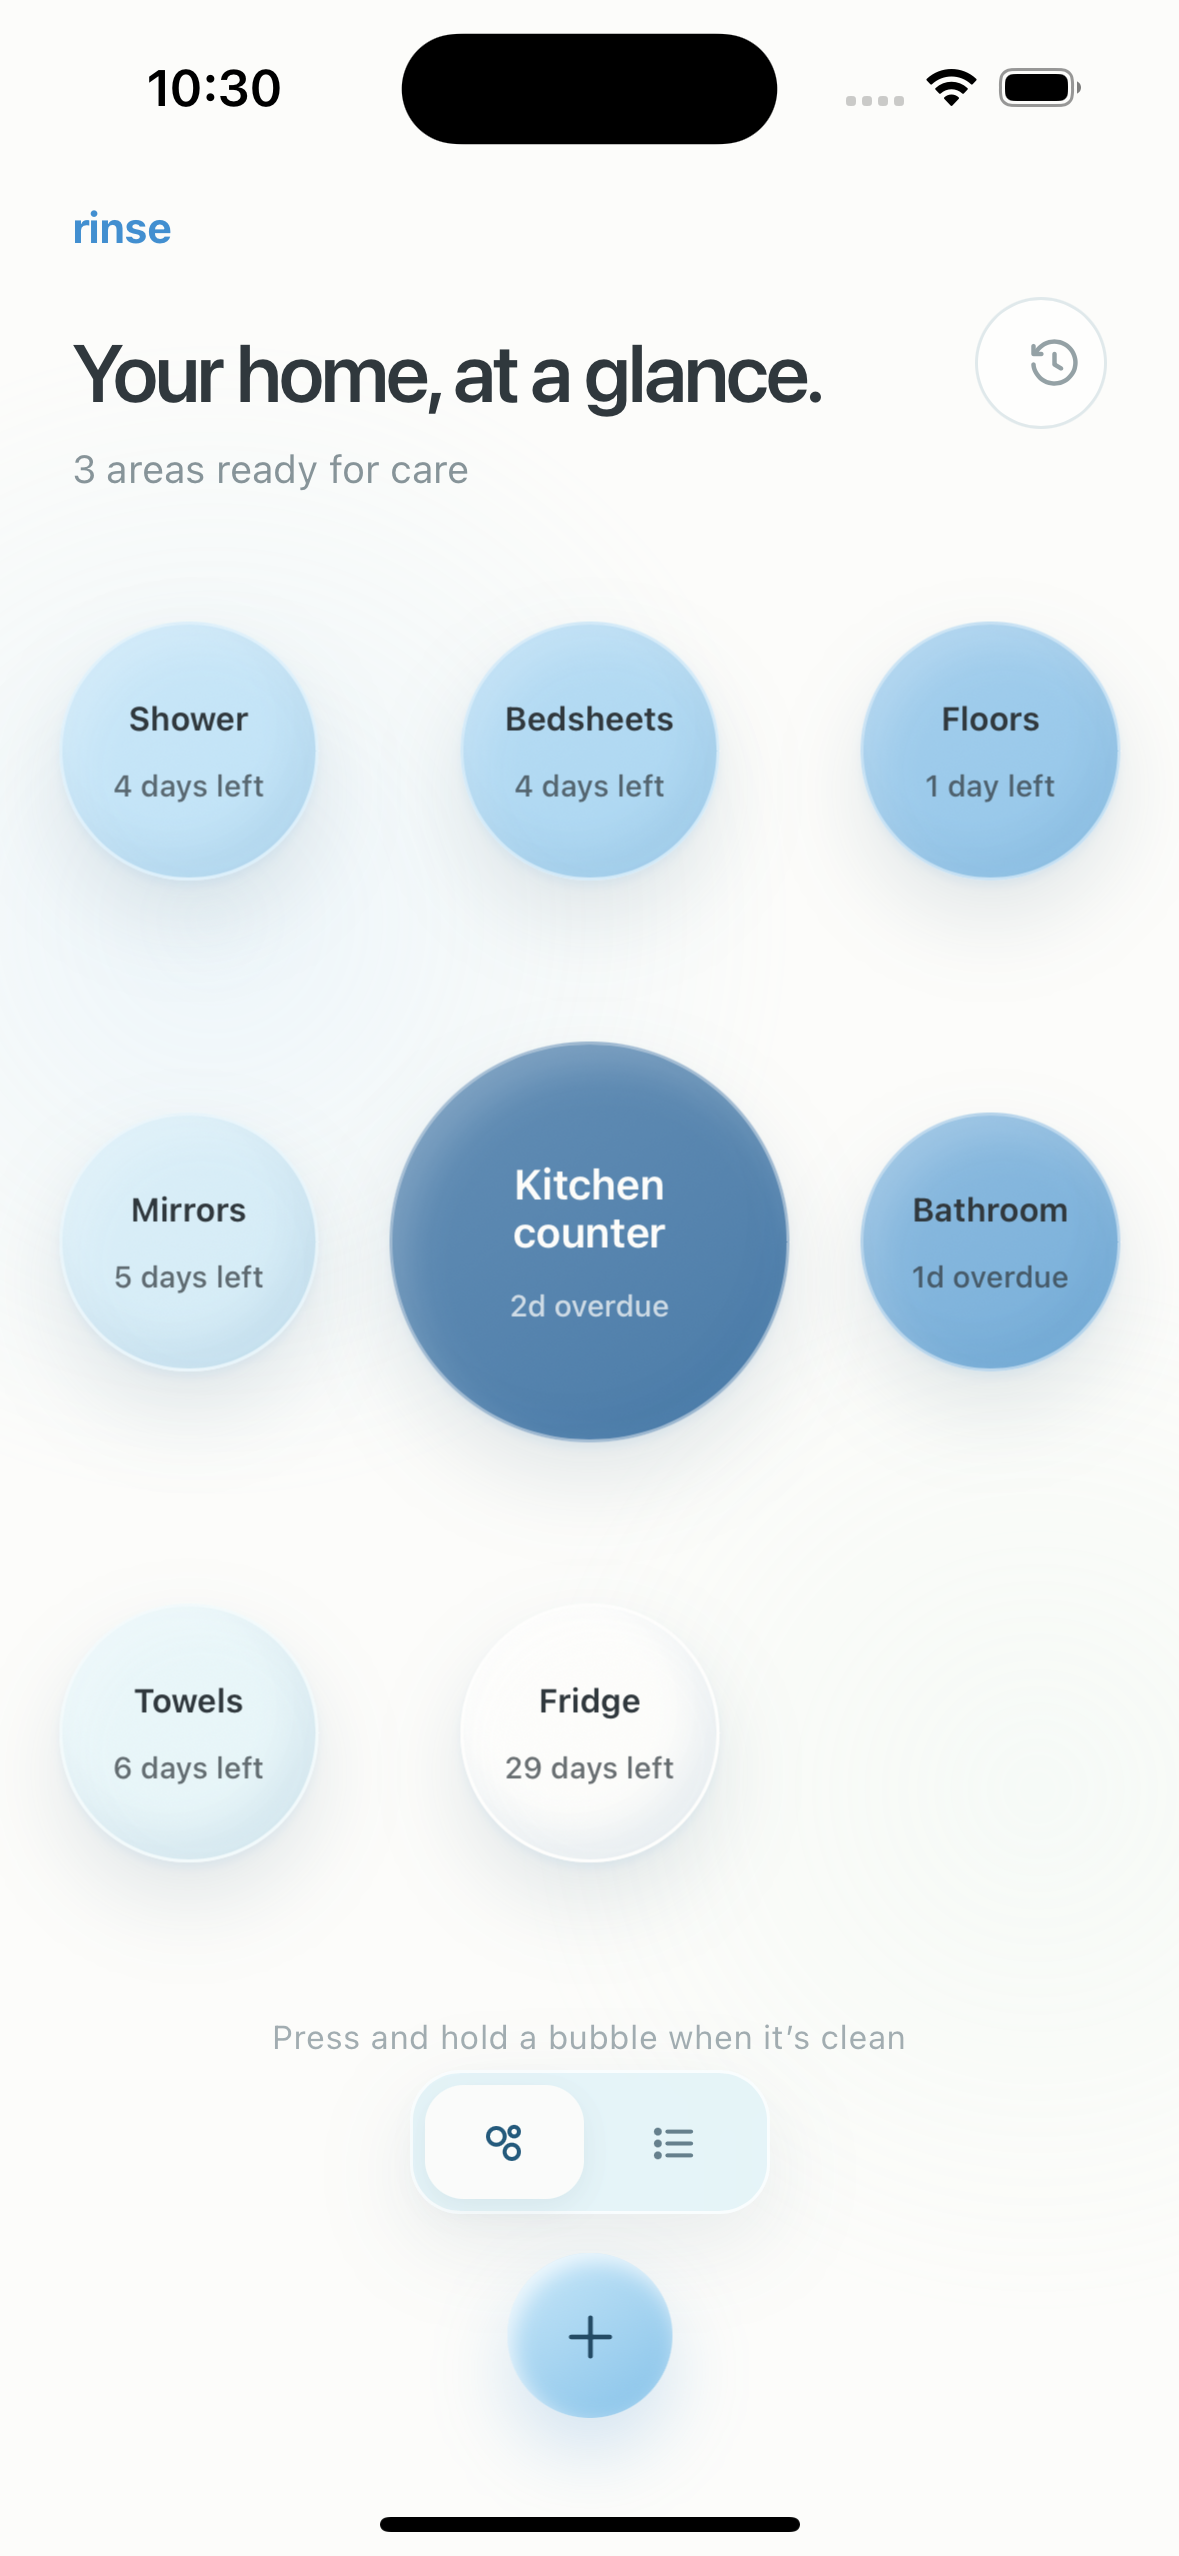
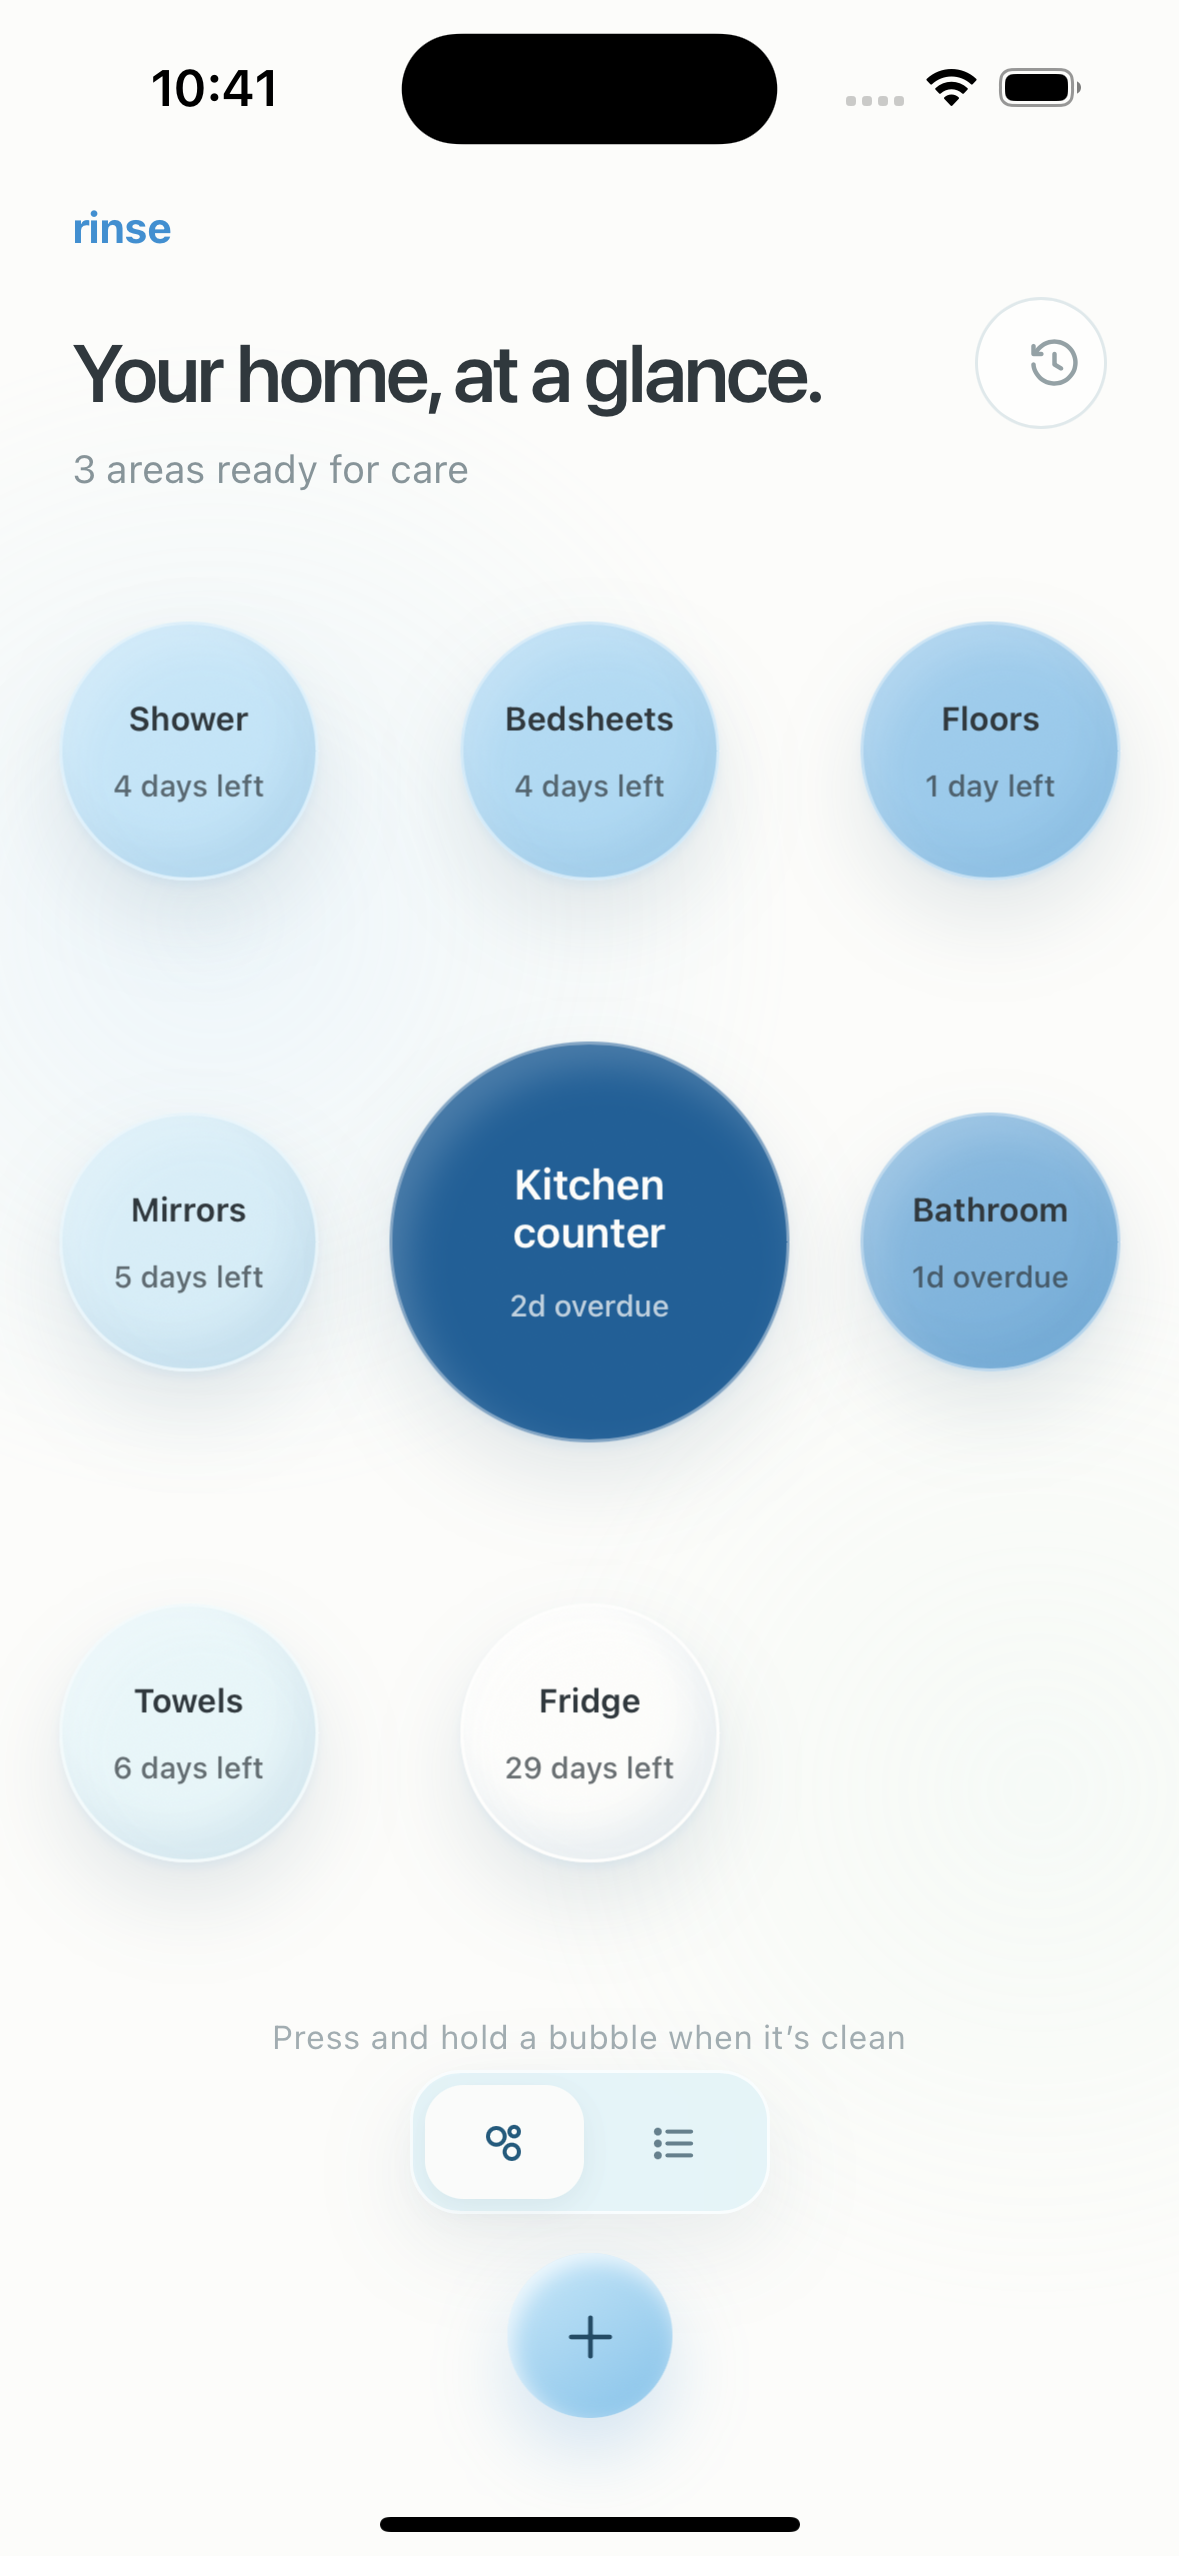
docs: add iOS simulator evidence

Changed region(s): [[0.3053, 0.4018, 0.6718, 0.5872], [0.1221, 0.0309, 0.2443, 0.0618]]

diff --git a/docs/ACCEPTANCE.md b/docs/ACCEPTANCE.md
@@ -2,7 +2,7 @@
 
 ## 验收范围
 
-本清单覆盖 Android、iOS 和 Web 三个运行面。Android 已在本地 API 33 模拟器完成一轮验收；iOS 模拟器已在 GitHub Actions 的 macOS 14 runner 构建通过，但本地没有 macOS，因此真机安装与运行仍需在 iPhone 或 Mac 上补充验证。
+本清单覆盖 Android、iOS 和 Web 三个运行面。Android 已在本地 API 33 模拟器完成一轮验收；iOS 模拟器已在 GitHub Actions 的 macOS 14 runner 构建、安装并在 iPhone 15 Pro 模拟器启动通过，但本地没有 macOS，因此真机安装与运行仍需在 iPhone 或 Mac 上补充验证。
 
 验收目标不是只看「能打开」，而是同时确认：
 
@@ -143,16 +143,16 @@ open App.xcworkspace
 
 ## 自动化证据
 
-| 检查        | 命令                      | 结果                                                                           |
-| ----------- | ------------------------- | ------------------------------------------------------------------------------ |
-| 单元测试    | `npm test`                | 16 passed                                                                      |
-| 移动端 E2E  | `npm run test:e2e`        | 11 passed                                                                      |
-| 类型        | `npm run typecheck`       | passed                                                                         |
-| Lint        | `npm run lint`            | passed                                                                         |
-| 格式        | `npm run format:check`    | passed                                                                         |
-| Android APK | `./gradlew assembleDebug` | BUILD SUCCESSFUL                                                               |
-| iOS 模拟器  | GitHub Actions macOS      | passed（[CI run](https://github.com/Phanstal/Rinse/actions/runs/40485608835)） |
-| CI 全流程   | GitHub Actions            | Web / Android / iOS 全部 passed                                                |
+| 检查        | 命令                      | 结果                                                                                          |
+| ----------- | ------------------------- | --------------------------------------------------------------------------------------------- |
+| 单元测试    | `npm test`                | 16 passed                                                                                     |
+| 移动端 E2E  | `npm run test:e2e`        | 11 passed                                                                                     |
+| 类型        | `npm run typecheck`       | passed                                                                                        |
+| Lint        | `npm run lint`            | passed                                                                                        |
+| 格式        | `npm run format:check`    | passed                                                                                        |
+| Android APK | `./gradlew assembleDebug` | BUILD SUCCESSFUL                                                                              |
+| iOS 模拟器  | GitHub Actions macOS      | build + launch passed（[CI run](https://github.com/Phanstal/Rinse/actions/runs/40489937940)） |
+| CI 全流程   | GitHub Actions            | Web / Android / iOS 全部 passed                                                               |
 
 ## 发布产物验收
 
@@ -160,7 +160,7 @@ open App.xcworkspace
 - [x] `sha256sum -c SHA256SUMS.txt` 全部通过。
 - [x] APK 能在干净的 Android 设备/模拟器安装。
 - [ ] 未签名 IPA 能被重签工具识别（不要求直接安装）。
-- [ ] 模拟器 zip 能在 macOS Xcode Simulator 中启动。
+- [x] 模拟器 zip 能在 macOS Xcode Simulator 中启动。
 - [ ] 真机验收记录补充到本文件。
 
 ## 发布记录

diff --git a/README.md b/README.md
@@ -56,6 +56,10 @@ Android 原生运行（CI 构建 APK，API 33 模拟器）：
 
 ![Android 原生首页](docs/screenshots/native-android-release.png)
 
+iOS 模拟器运行（GitHub Actions macOS，iPhone 15 Pro）：
+
+![iOS 模拟器首页](docs/screenshots/ios-simulator-home.png)
+
 ## 隐私
 
 - 不创建账号，不连接服务器，不发送分析或崩溃数据。
